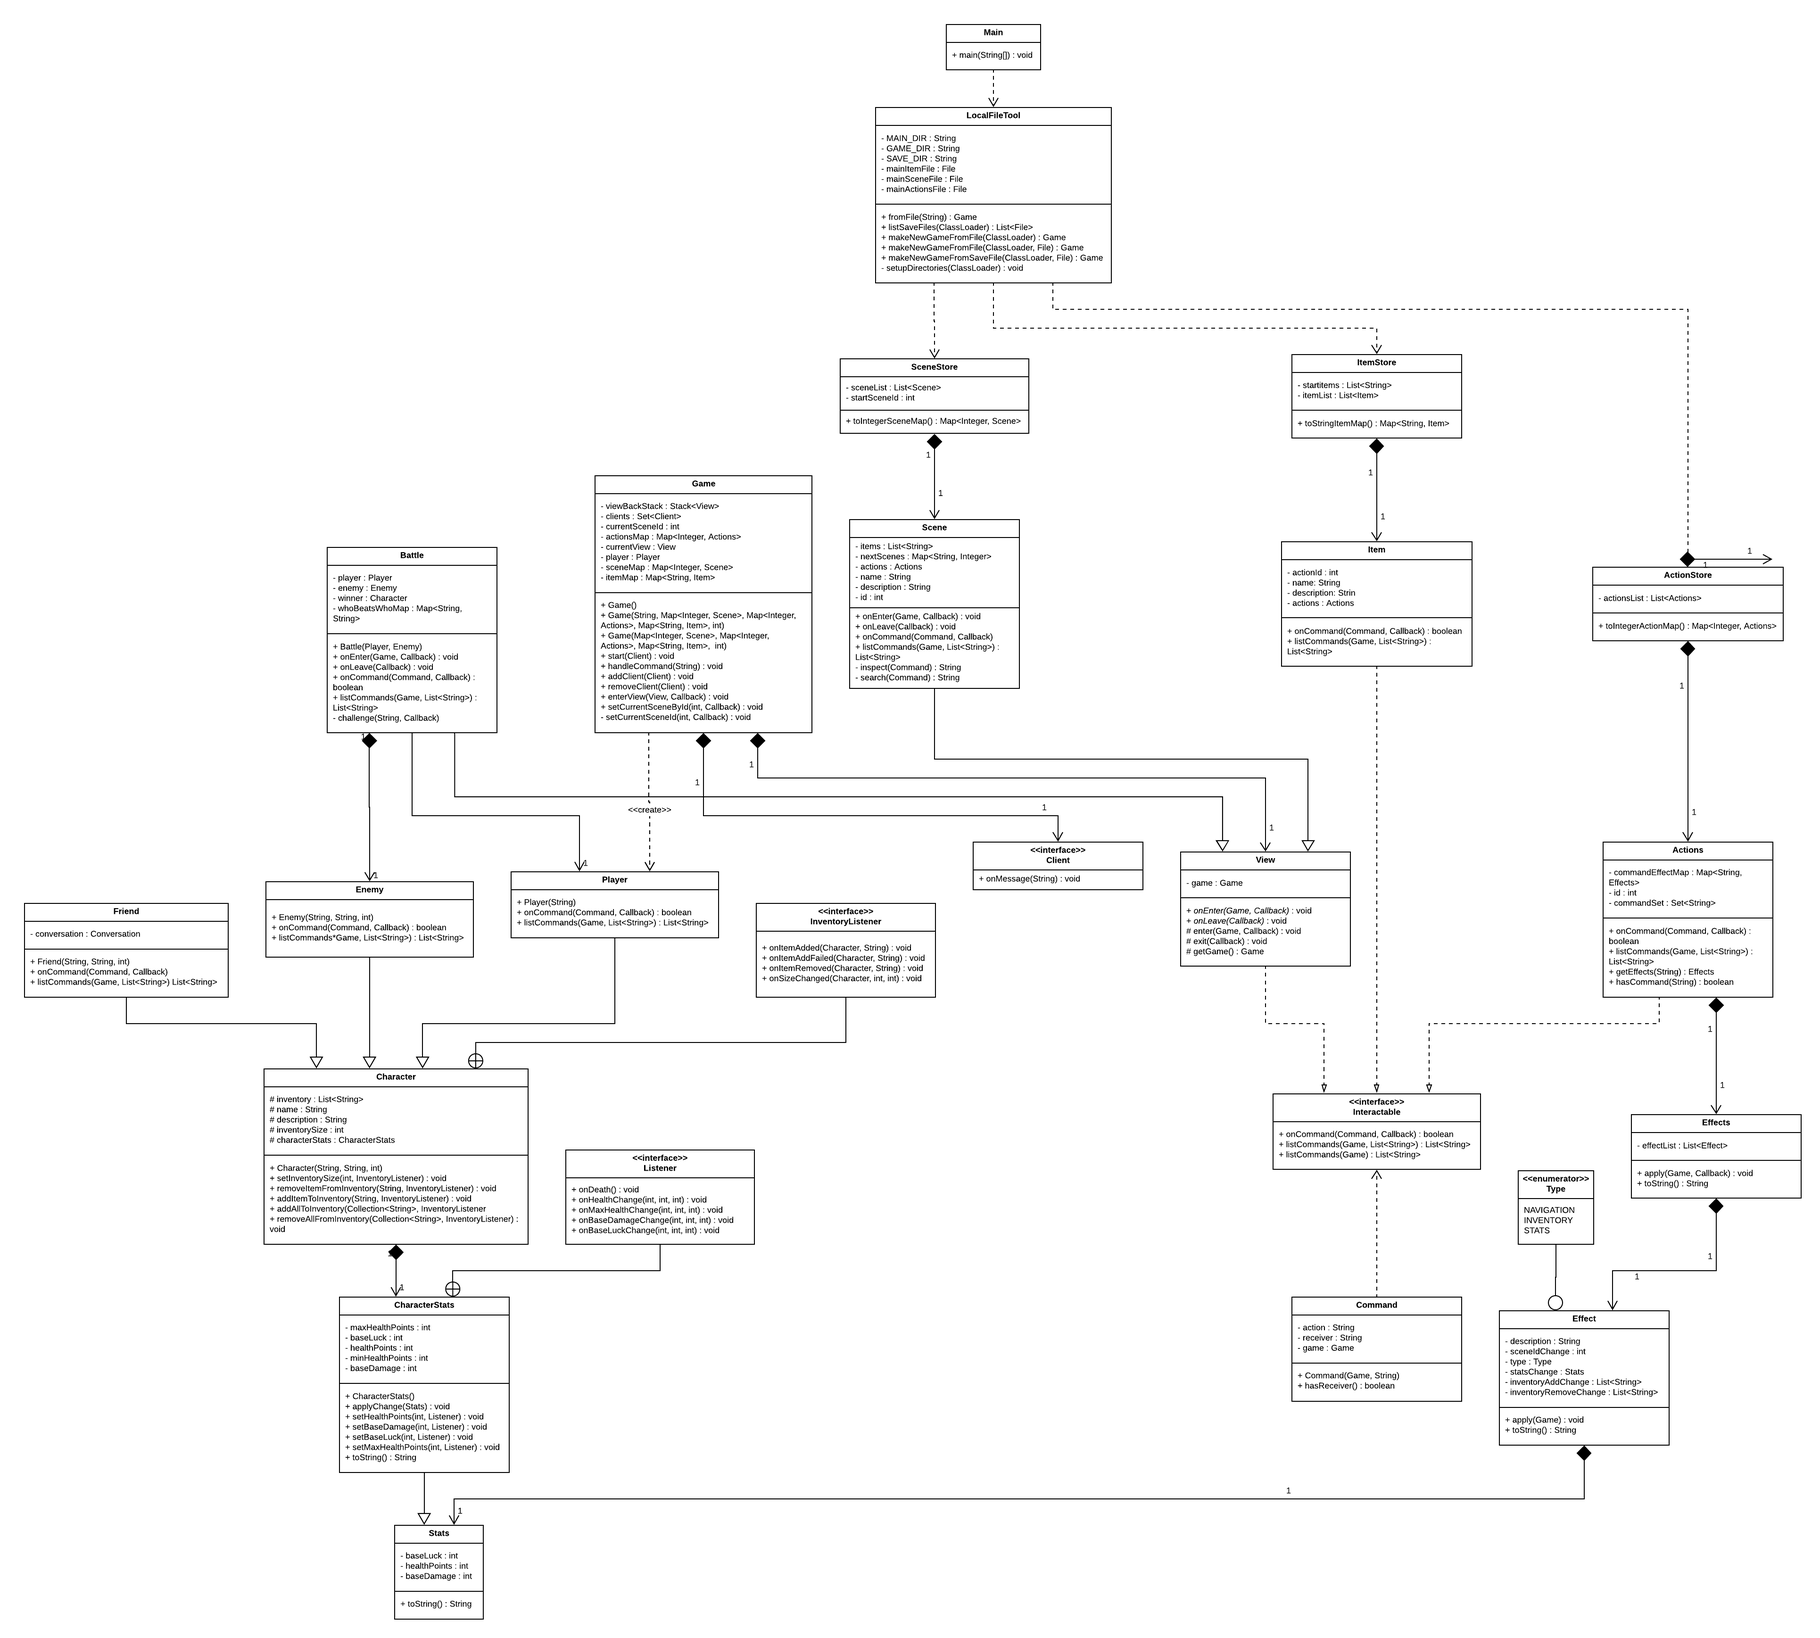
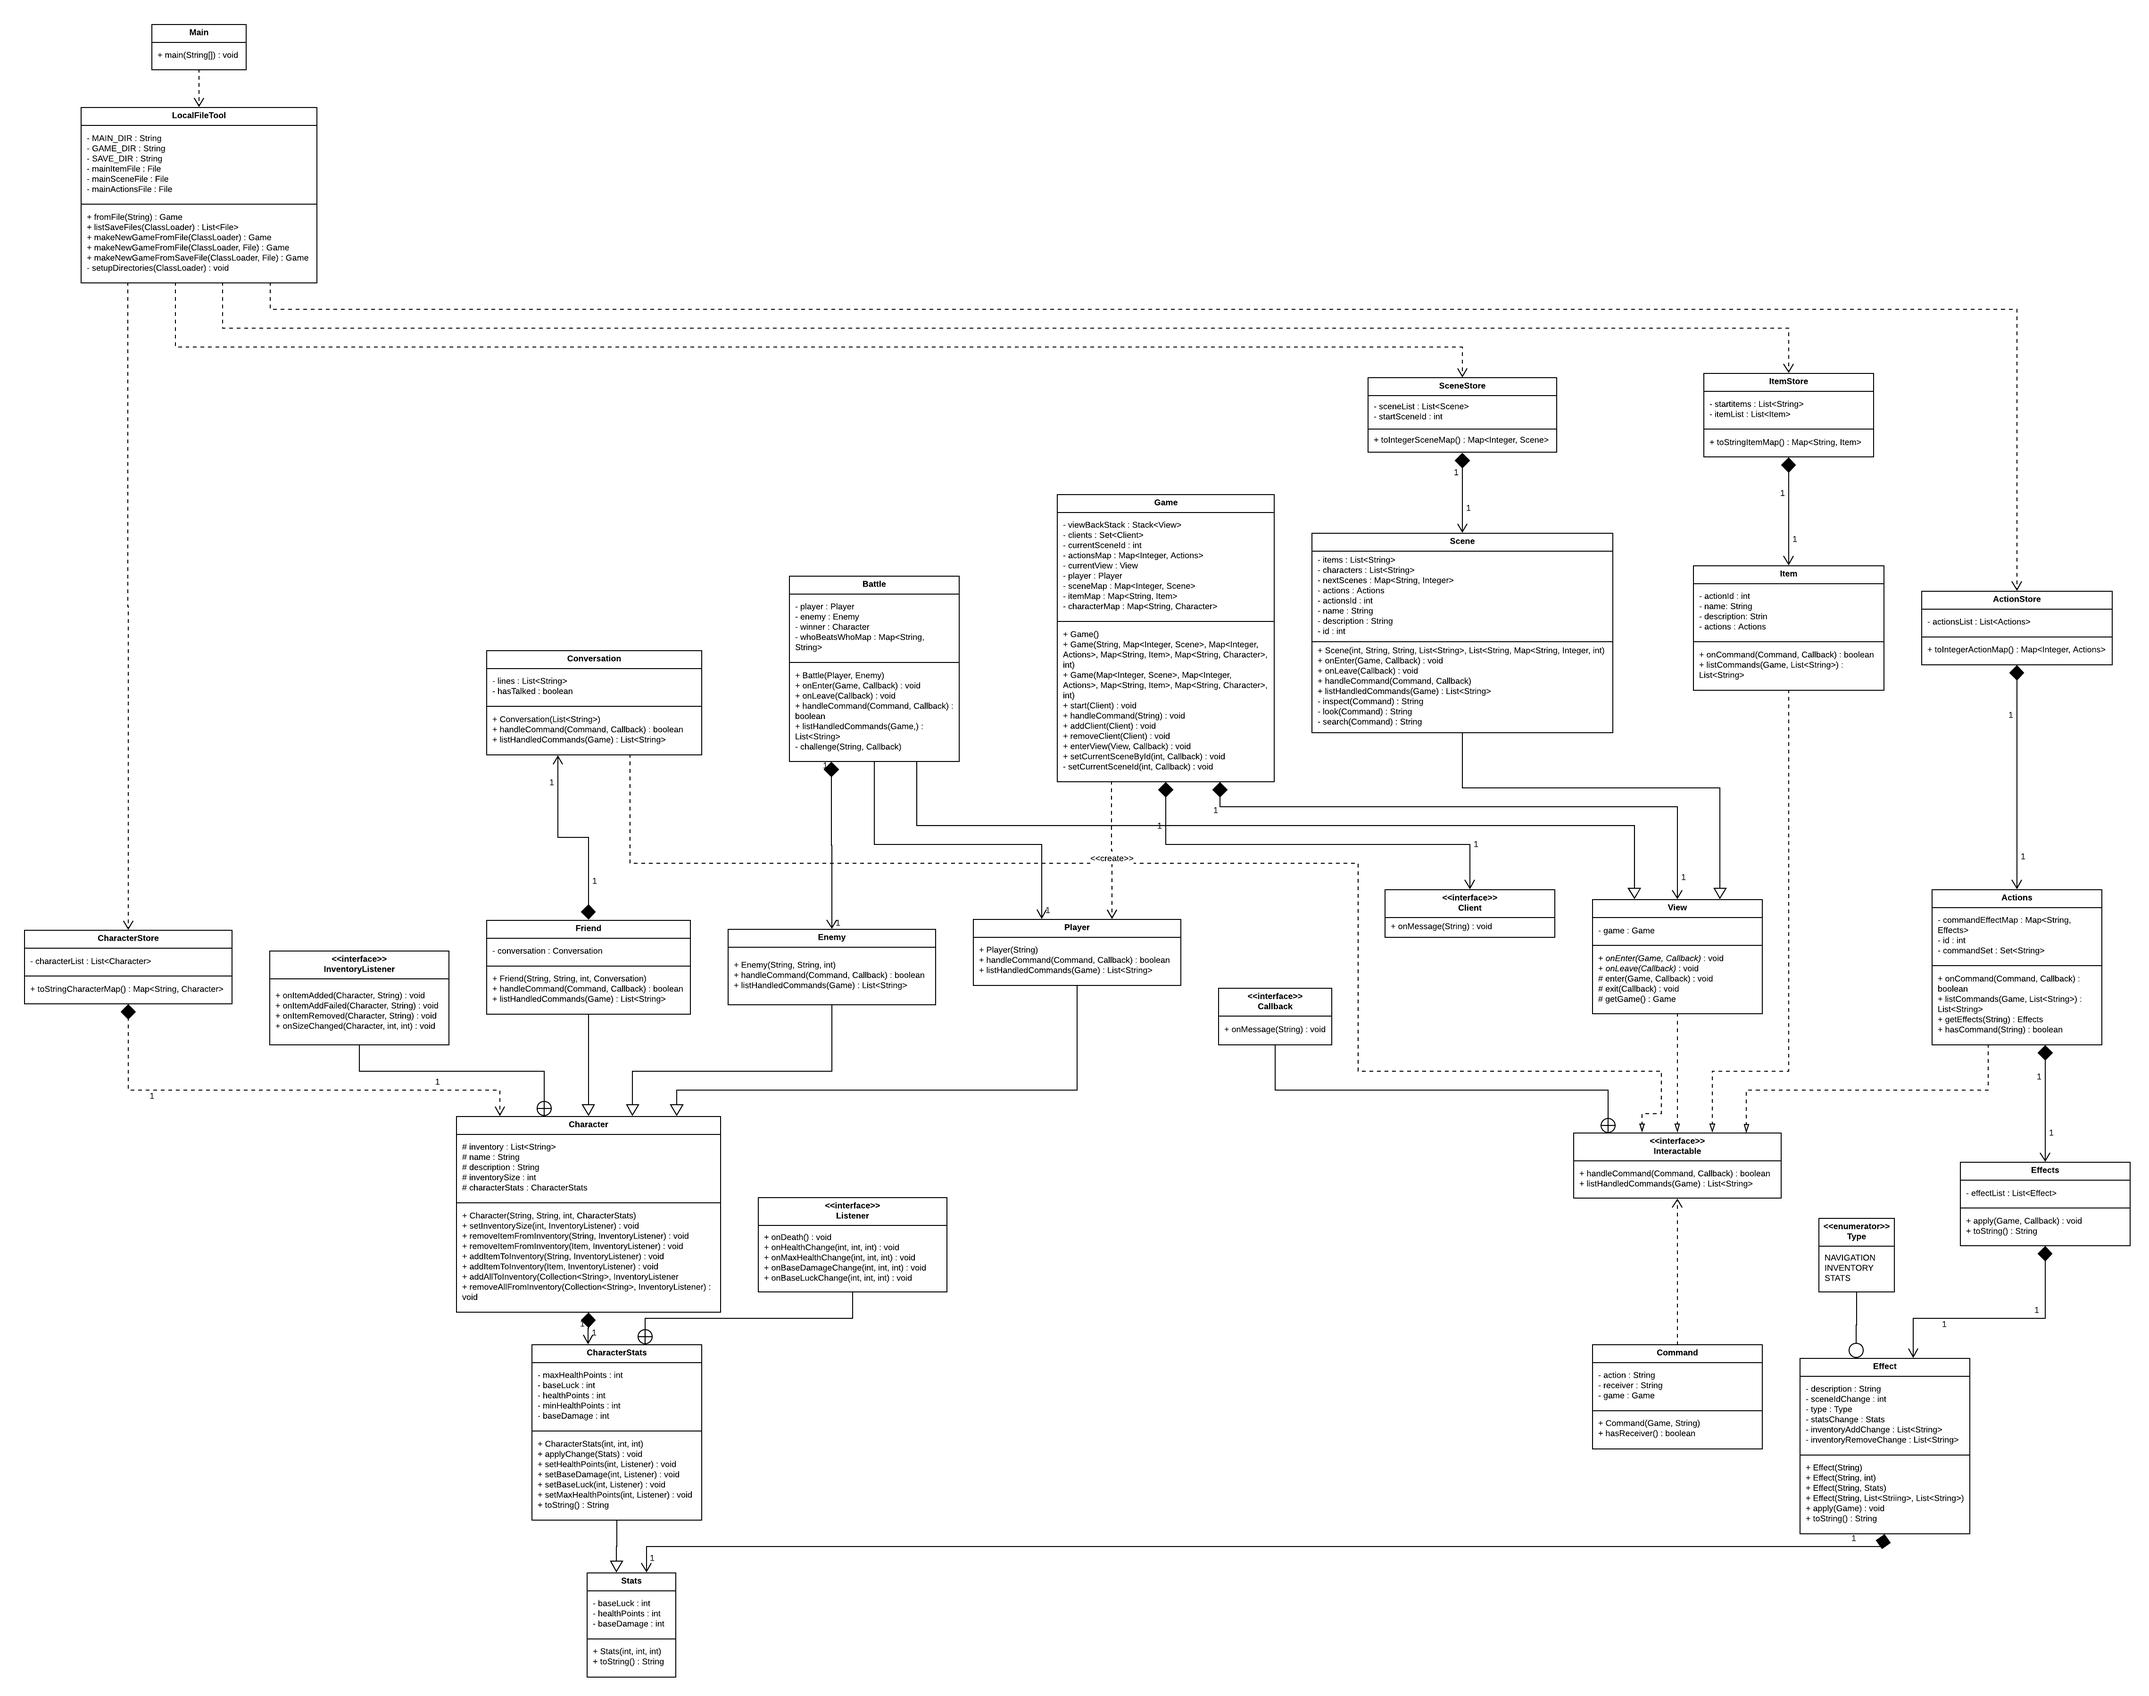
added class diagram image

diff --git a/docs/assignment3.md b/docs/assignment3.md
@@ -79,7 +79,7 @@ Maximum number of words for this section: 2000
 ## Class diagram
 Author(s): Sofia Konovalova
 
-`insert class diagram here`
+![](images-assignment3/ClassDiagram.png)
 
 The class **Main** is the class that starts up the program and contains the main method of the program.
 The main method of the class creates a *game* object which uses the **LocalFileTool** class
